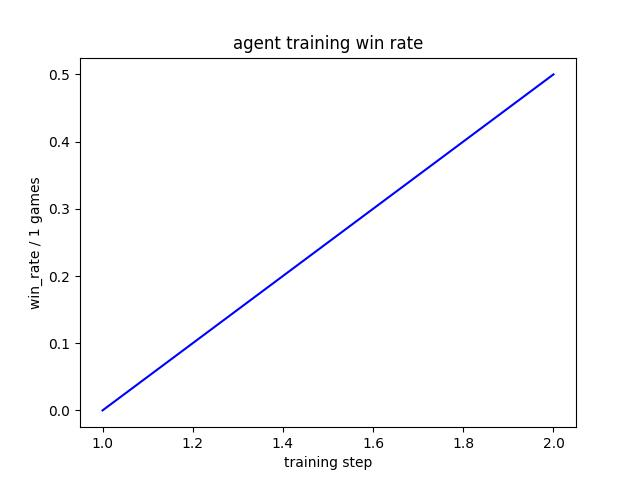
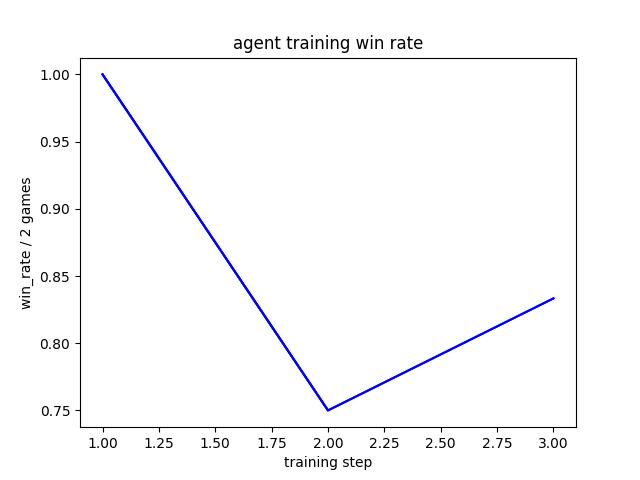
add model backup

diff --git a/training/train_2P.py b/training/train_2P.py
@@ -13,14 +13,14 @@ from training.ppo_agent import PPOAgent
 LEGAL_ACT_COST = 1
 MAX_NEGATIVE_REWARD = -10000
 EPISODE_NUM = 500
-TRAINING_STEP = EPISODE_NUM // 10
+TRAINING_STEP = 10
 
 # initialize the gym
 config = {
     'player_count': 2,
-    'player_swap_delay': 10,
+    'player_swap_delay': 30,
     'player_select_delay': 50,
-    'player_add_new_row_delay': 50,
+    'player_add_new_row_delay': 20,
     'realtime': False
 }
 
@@ -54,12 +54,12 @@ def player1_callback(game_state, to_print=False):
         model_player1.prev_score = game_state["score"]
   
     if to_print:
-      print("Reward: " + str(reward))
+        print("Reward: " + str(reward))
     model_player1.buffer.episode_rewards.append(reward)
     
     # give the action to the gym
     if to_print:
-      print(f'In P1, action_type: {action_type}, action_data: {action_data}')
+        print(f'In P1, action_type: {action_type}, action_data: {action_data}')
     return action_type, action_data
 
 def player2_callback(game_state):
@@ -89,9 +89,8 @@ path_P2 = model_save_P2_folder + model_save_P2_name
 path_policy1 = model_save_P1_folder + 'training_model_2P_0.83_policy.pt'
 path_value1 = model_save_P1_folder + 'training_model_2P_0.83_value.pt'
 
-model_player1 = PPOAgent(50, ACTION_SIZE, path_policy1, path_value1)
+model_player1 = PPOAgent(50, ACTION_SIZE) #, path_policy1, path_value1)
 model_player2 = PPOAgent(50, ACTION_SIZE, path_policy1, path_value1)
-
 P1_win = 0
 p1_win_rates = []
 
@@ -128,14 +127,22 @@ with open('training_log_2P.txt', 'w') as f:
         if i % TRAINING_STEP == (TRAINING_STEP - 1):
             current_win_rate = P1_win/(i + 1)
             p1_win_rates.append(current_win_rate)
-            print(f'step: {i // TRAINING_STEP}, win rate: {current_win_rate} ({P1_win}/{i + 1})')
+            print(f'step: {i + 1}, win rate: {current_win_rate} ({P1_win}/{i + 1})')
+            print('model backup...')
+            torch.save(model_player1, f'model/zero_backup/policy_{i + 1}.pt')
+            torch.save(model_player1, f'model/zero_backup/value_{i + 1}.pt')
+            print('image backup...')
+            plot_curve(p1_win_rates, 'training step', f'win_rate / {TRAINING_STEP} games', \
+                       'agent training win rate', f'image_backup/zero/win_rate_{i + 1}.jpg')
+            print('=================================================')
 
 
-print(f"P1 win: {P1_win}/{EPISODE_NUM}")
-print(f"Rate: {P1_win/EPISODE_NUM}")
+
+print(f"P1 win rate: {P1_win}/{EPISODE_NUM} ({P1_win/EPISODE_NUM})")
 
 # print the reward of each episode
-plot_curve(p1_win_rates, 'training step', f'win_rate / {TRAINING_STEP} games', 'agent training win rate', 'training_win_rate.jpg')
+plot_curve(p1_win_rates, 'training step', f'win_rate / {TRAINING_STEP} games', \
+           'agent training win rate', 'zero_win_rate.jpg')
 
 # save model, be careful of filename (version)
 # torch.save(model_player1, path_P1)
